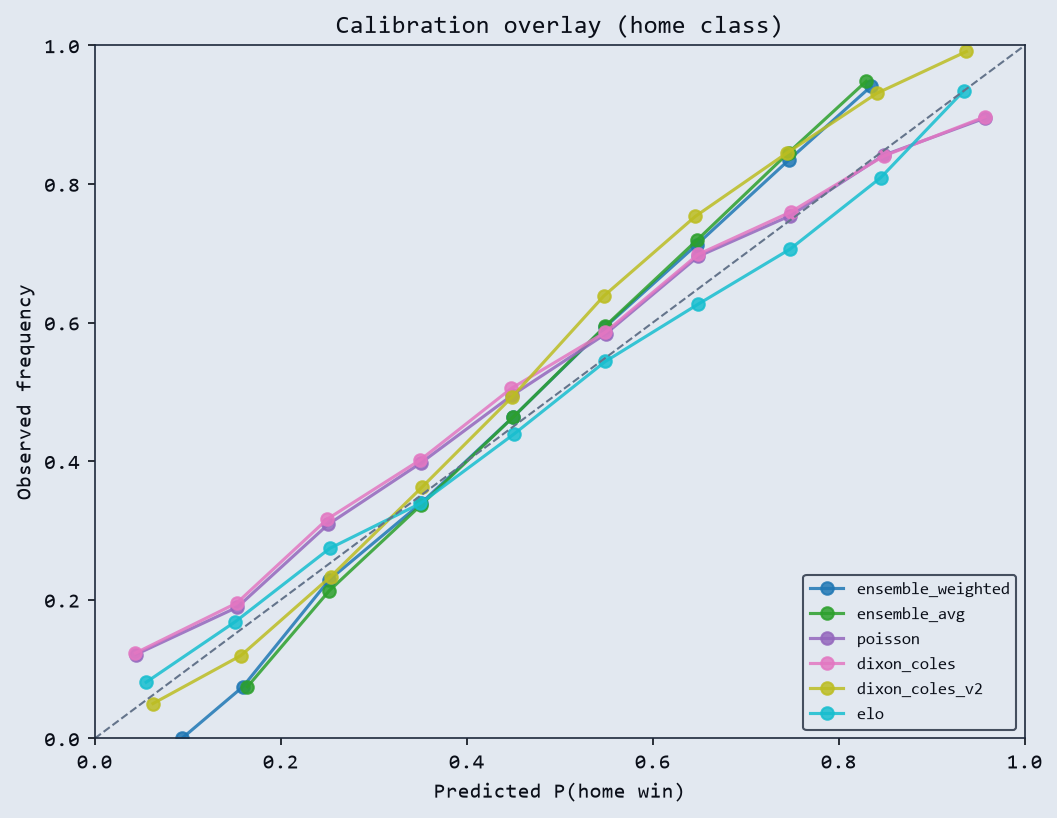
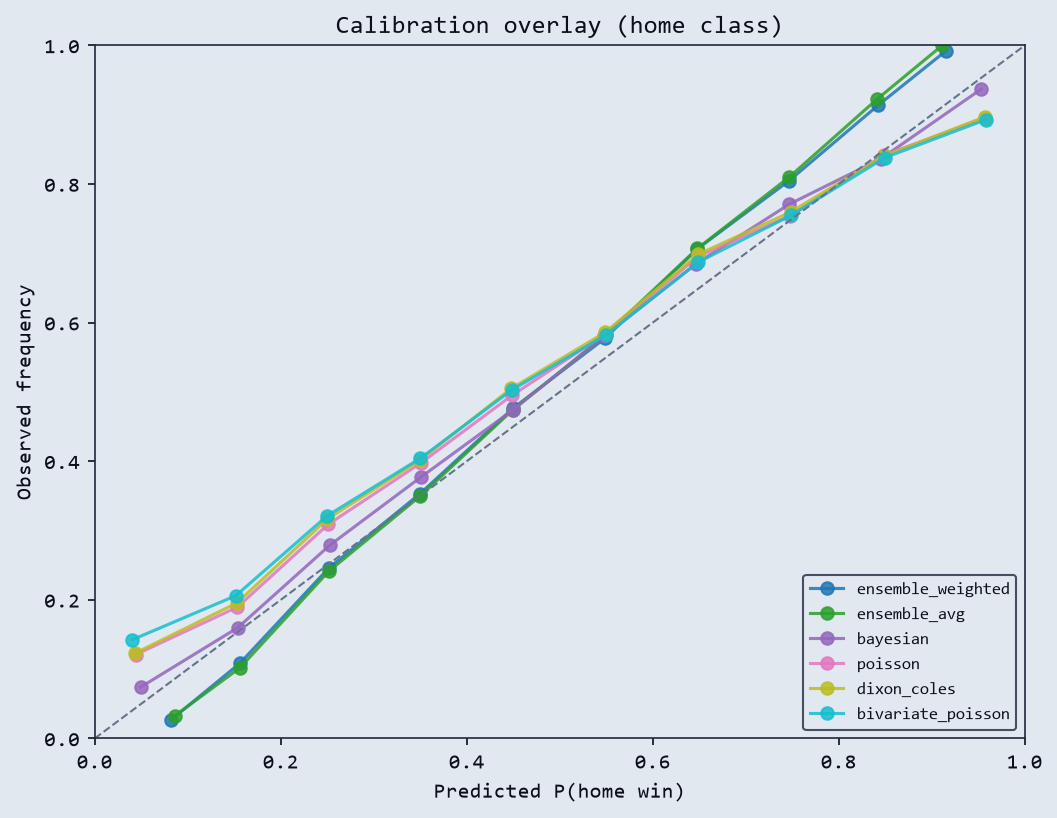
report addition

Changed region(s): [[0.0937, 0.0306, 0.9366, 0.9169], [0.8117, 0.8252, 0.9678, 0.8863], [0.8117, 0.7641, 0.9054, 0.8252]]

diff --git a/src/nlvswe/eval/compare.py b/src/nlvswe/eval/compare.py
@@ -226,6 +226,40 @@ def build_ensembles(
     return out
 
 
+def rps_tie_clusters(rps: pd.DataFrame) -> list[list[str]]:
+    # group models whose RPS bootstrap CIs overlap
+    if rps.empty:
+        return []
+    models = rps.sort_values("mean", kind="mergesort").reset_index(drop=True)
+    parent = {str(row["model"]): str(row["model"]) for _, row in models.iterrows()}
+
+    def find(node: str) -> str:
+        while parent[node] != node:
+            parent[node] = parent[parent[node]]
+            node = parent[node]
+        return node
+
+    def union(left: str, right: str) -> None:
+        root_l, root_r = find(left), find(right)
+        if root_l != root_r:
+            parent[root_r] = root_l
+
+    names = [str(row["model"]) for _, row in models.iterrows()]
+    for i, left in enumerate(names):
+        row_l = models.iloc[i]
+        for j in range(i + 1, len(names)):
+            right = names[j]
+            row_r = models.iloc[j]
+            if float(row_l["ci_low"]) <= float(row_r["ci_high"]) and float(row_r["ci_low"]) <= float(row_l["ci_high"]):
+                union(left, right)
+
+    groups: dict[str, list[str]] = {}
+    for name in names:
+        groups.setdefault(find(name), []).append(name)
+    order = {str(row["model"]): float(row["mean"]) for _, row in models.iterrows()}
+    return [sorted(group, key=lambda m: order[m]) for group in groups.values()]
+
+
 def plot_metric_bars(leaderboard: pd.DataFrame, metric: str, *, out_name: str) -> None:
     sub = leaderboard[leaderboard["metric"] == metric].sort_values("mean", kind="mergesort")
     if sub.empty:
@@ -238,7 +272,7 @@ def plot_metric_bars(leaderboard: pd.DataFrame, metric: str, *, out_name: str) -
     ax.set_yticklabels(sub["model"])
     ax.invert_yaxis()
     ax.set_xlabel(metric)
-    ax.set_title(f"Leaderboard — {metric} (lower is better)")
+    ax.set_title(f"Leaderboard: {metric} (lower is better)")
     style_figure(fig)
     style_axes(ax)
     save_figure(fig, out_name)
@@ -345,16 +379,29 @@ def write_model_selection_md(
     pairwise: pd.DataFrame,
     selection: dict,
     path: Path,
+    *,
+    n_matches: int = 0,
+    n_models: int = 0,
 ) -> None:
+    rps = leaderboard[leaderboard["metric"] == "rps"].sort_values("mean", kind="mergesort")
+    clusters = rps_tie_clusters(rps)
+    tie_lines = []
+    for cluster in clusters:
+        if len(cluster) > 1:
+            tie_lines.append(f"- `{', '.join(cluster)}`")
+    tie_block = "\n".join(tie_lines) if tie_lines else "- No multi-model tie clusters (each CI isolated)."
+
     lines = [
-        "# Model selection (Plan 08)",
+        "# Model selection",
         "",
         f"**Criterion:** {selection.get('criterion', 'RPS')}",
         "",
         f"**Selected model:** `{selection.get('pick')}`",
         f"**Walk-forward RPS:** {selection.get('pick_rps', float('nan')):.4f} "
         f"(95% CI {selection.get('pick_rps_ci', (float('nan'), float('nan')))[0]:.4f}"
-        f"–{selection.get('pick_rps_ci', (float('nan'), float('nan')))[1]:.4f})",
+        f"-{selection.get('pick_rps_ci', (float('nan'), float('nan')))[1]:.4f})",
+        "",
+        f"**Common match set:** {n_matches:,} matches scored by {n_models} models (intersection).",
         "",
         "## Market benchmark",
         "",
@@ -365,14 +412,15 @@ def write_model_selection_md(
         "| Rank | Model | RPS | 95% CI | Accuracy (footnote) |",
         "|------|-------|-----|--------|---------------------|",
     ]
-    rps = leaderboard[leaderboard["metric"] == "rps"].sort_values("mean", kind="mergesort")
     for _, row in rps.iterrows():
         acc = row.get("accuracy")
-        acc_s = f"{acc:.1%}" if pd.notna(acc) else "—"
+        acc_s = f"{acc:.1%}" if pd.notna(acc) else "n/a"
         lines.append(
             f"| {row['rank']} | `{row['model']}` | {row['mean']:.4f} | "
             f"[{row['ci_low']:.4f}, {row['ci_high']:.4f}] | {acc_s} |"
         )
+
+    lines.extend(["", "## Ties (overlapping RPS CIs)", "", tie_block])
 
     if not pairwise.empty:
         lines.extend(["", "## Pairwise vs market (RPS difference; negative = model better)", ""])
@@ -392,6 +440,7 @@ def write_model_selection_md(
             "",
             "- Selection uses walk-forward scores on the **intersection** of matches scored by all models.",
             "- Accuracy is descriptive only; RPS is the primary metric.",
+            "- Models listed under Ties share overlapping confidence intervals: treat rank gaps inside a cluster as noise.",
             "- If nothing beats the market, live betting should be framed as price-taker on soft markets only.",
         ]
     )
@@ -463,6 +512,8 @@ def run_compare(cfg: AppConfig | None = None) -> tuple[pd.DataFrame, pd.DataFram
         pairwise,
         selection,
         project_root() / REPORTS / "MODEL_SELECTION.md",
+        n_matches=len(match_ids),
+        n_models=len(frames),
     )
 
     rps_board = leaderboard[leaderboard["metric"] == "rps"]

diff --git a/tests/test_compare.py b/tests/test_compare.py
@@ -6,7 +6,7 @@ import numpy as np
 import pandas as pd
 import pytest
 
-from nlvswe.eval.compare import align_predictions, build_leaderboard, pairwise_vs_reference
+from nlvswe.eval.compare import align_predictions, build_leaderboard, pairwise_vs_reference, rps_tie_clusters
 from nlvswe.eval.scoring import ranked_probability_score
 from nlvswe.models.base import validate_prediction
 from nlvswe.models.ensemble import (
@@ -106,6 +106,20 @@ def test_weighted_ensemble_uses_training_slice_only():
     assert len(spy.calls) >= 1
     # First scored match is s4 (index 3); its weight fit must use 3 prior rows only.
     assert spy.calls[0] == 3
+
+
+def test_rps_tie_clusters_overlap():
+    board = pd.DataFrame(
+        [
+            {"model": "a", "mean": 0.18, "ci_low": 0.17, "ci_high": 0.19},
+            {"model": "b", "mean": 0.181, "ci_low": 0.179, "ci_high": 0.183},
+            {"model": "c", "mean": 0.30, "ci_low": 0.28, "ci_high": 0.32},
+        ]
+    )
+    clusters = rps_tie_clusters(board)
+    flat = {m for group in clusters for m in group}
+    assert flat == {"a", "b", "c"}
+    assert any(set(group) == {"a", "b"} for group in clusters)
 
 
 def test_align_predictions_common_set():

diff --git a/reports/MODEL_SELECTION.md b/reports/MODEL_SELECTION.md
@@ -1,9 +1,11 @@
-# Model selection (Plan 08)
+# Model selection
 
 **Criterion:** Lowest walk-forward RPS on common match set with acceptable calibration
 
 **Selected model:** `ensemble_weighted`
-**Walk-forward RPS:** 0.1791 (95% CI 0.1774–0.1808)
+**Walk-forward RPS:** 0.1765 (95% CI 0.1747-0.1783)
+
+**Common match set:** 19,500 matches scored by 11 models (intersection).
 
 ## Market benchmark
 
@@ -13,17 +15,26 @@ Market predictions not available for comparison.
 
 | Rank | Model | RPS | 95% CI | Accuracy (footnote) |
 |------|-------|-----|--------|---------------------|
-| 1 | `ensemble_weighted` | 0.1791 | [0.1774, 0.1808] | 58.8% |
-| 2 | `ensemble_avg` | 0.1798 | [0.1781, 0.1814] | 58.8% |
-| 3 | `poisson` | 0.1805 | [0.1782, 0.1827] | 57.9% |
-| 4 | `dixon_coles` | 0.1806 | [0.1783, 0.1828] | 57.8% |
-| 5 | `dixon_coles_v2` | 0.1836 | [0.1819, 0.1852] | 58.1% |
-| 6 | `elo` | 0.1860 | [0.1839, 0.1882] | 57.0% |
-| 7 | `baseline` | 0.2258 | [0.2244, 0.2271] | 48.0% |
-| 8 | `constant` | 0.2275 | [0.2262, 0.2288] | 48.0% |
+| 1 | `ensemble_weighted` | 0.1765 | [0.1747, 0.1783] | 58.9% |
+| 2 | `ensemble_avg` | 0.1768 | [0.1750, 0.1786] | 58.9% |
+| 3 | `bayesian` | 0.1788 | [0.1768, 0.1809] | 58.2% |
+| 4 | `poisson` | 0.1805 | [0.1782, 0.1827] | 57.9% |
+| 5 | `dixon_coles` | 0.1806 | [0.1783, 0.1828] | 57.8% |
+| 6 | `bivariate_poisson` | 0.1815 | [0.1792, 0.1838] | 57.5% |
+| 7 | `dixon_coles_v2` | 0.1836 | [0.1819, 0.1852] | 58.1% |
+| 8 | `ml` | 0.1858 | [0.1836, 0.1880] | 56.8% |
+| 9 | `elo` | 0.1860 | [0.1839, 0.1882] | 57.0% |
+| 10 | `baseline` | 0.2258 | [0.2244, 0.2271] | 48.0% |
+| 11 | `constant` | 0.2275 | [0.2262, 0.2288] | 48.0% |
+
+## Ties (overlapping RPS CIs)
+
+- `ensemble_weighted, ensemble_avg, bayesian, poisson, dixon_coles, bivariate_poisson, dixon_coles_v2, ml, elo`
+- `baseline, constant`
 
 ## Notes
 
 - Selection uses walk-forward scores on the **intersection** of matches scored by all models.
 - Accuracy is descriptive only; RPS is the primary metric.
+- Models listed under Ties share overlapping confidence intervals: treat rank gaps inside a cluster as noise.
 - If nothing beats the market, live betting should be framed as price-taker on soft markets only.

diff --git a/reports/REPORT.md b/reports/REPORT.md
@@ -40,6 +40,32 @@ Did anything beat the market? On internationals I can't really say, as there is 
 ![Walk-forward RPS leaderboard](figures/compare_rps_leaderboard.png)
 ![Calibration overlay across models](figures/compare_calibration_overlay.png)
 
+### Full ladder (append)
+
+Every rung now has walk-forward predictions on disk. Rescoring the **19,500-match
+intersection** (all eleven models) gives this RPS ordering. Models whose confidence
+intervals overlap are tied; the big cluster from `ensemble_weighted` through `elo`
+is one such group, so rank order inside it is noise.
+
+| Model | RPS | 95% CI |
+|---|---|---|
+| ensemble_weighted | 0.177 | [0.175, 0.178] |
+| ensemble_avg | 0.177 | [0.175, 0.179] |
+| bayesian | 0.179 | [0.177, 0.181] |
+| poisson | 0.180 | [0.178, 0.183] |
+| dixon_coles | 0.181 | [0.178, 0.183] |
+| bivariate_poisson | 0.181 | [0.179, 0.184] |
+| dixon_coles_v2 | 0.184 | [0.182, 0.185] |
+| ml | 0.186 | [0.184, 0.188] |
+| elo | 0.186 | [0.184, 0.188] |
+| baseline | 0.226 | [0.224, 0.227] |
+| constant | 0.228 | [0.226, 0.229] |
+
+`ml` landed where I expected: below the structured goal models, with no leakage
+smell in the feature-importance check. `bayesian` sits in the tied cluster near
+the top. `bivariate_poisson` is ~tied with `dixon_coles`, as expected. See
+`reports/MODEL_SELECTION.md` for the authoritative table and tie groups.
+
 ## From a scoreline to a bet
 
 A goal model gives a full grid of scoreline probabilities, which you sum into whatever market you care about. I computed each market two ways (exact summation, and a Monte Carlo over 10,000 simulated matches) and checked whether they agree within sampling error (they do). The picture for Netherlands vs Sweden: Netherlands clear favourites, most likely scoreline around 2-1, with an expected total near 3.7 goals.
